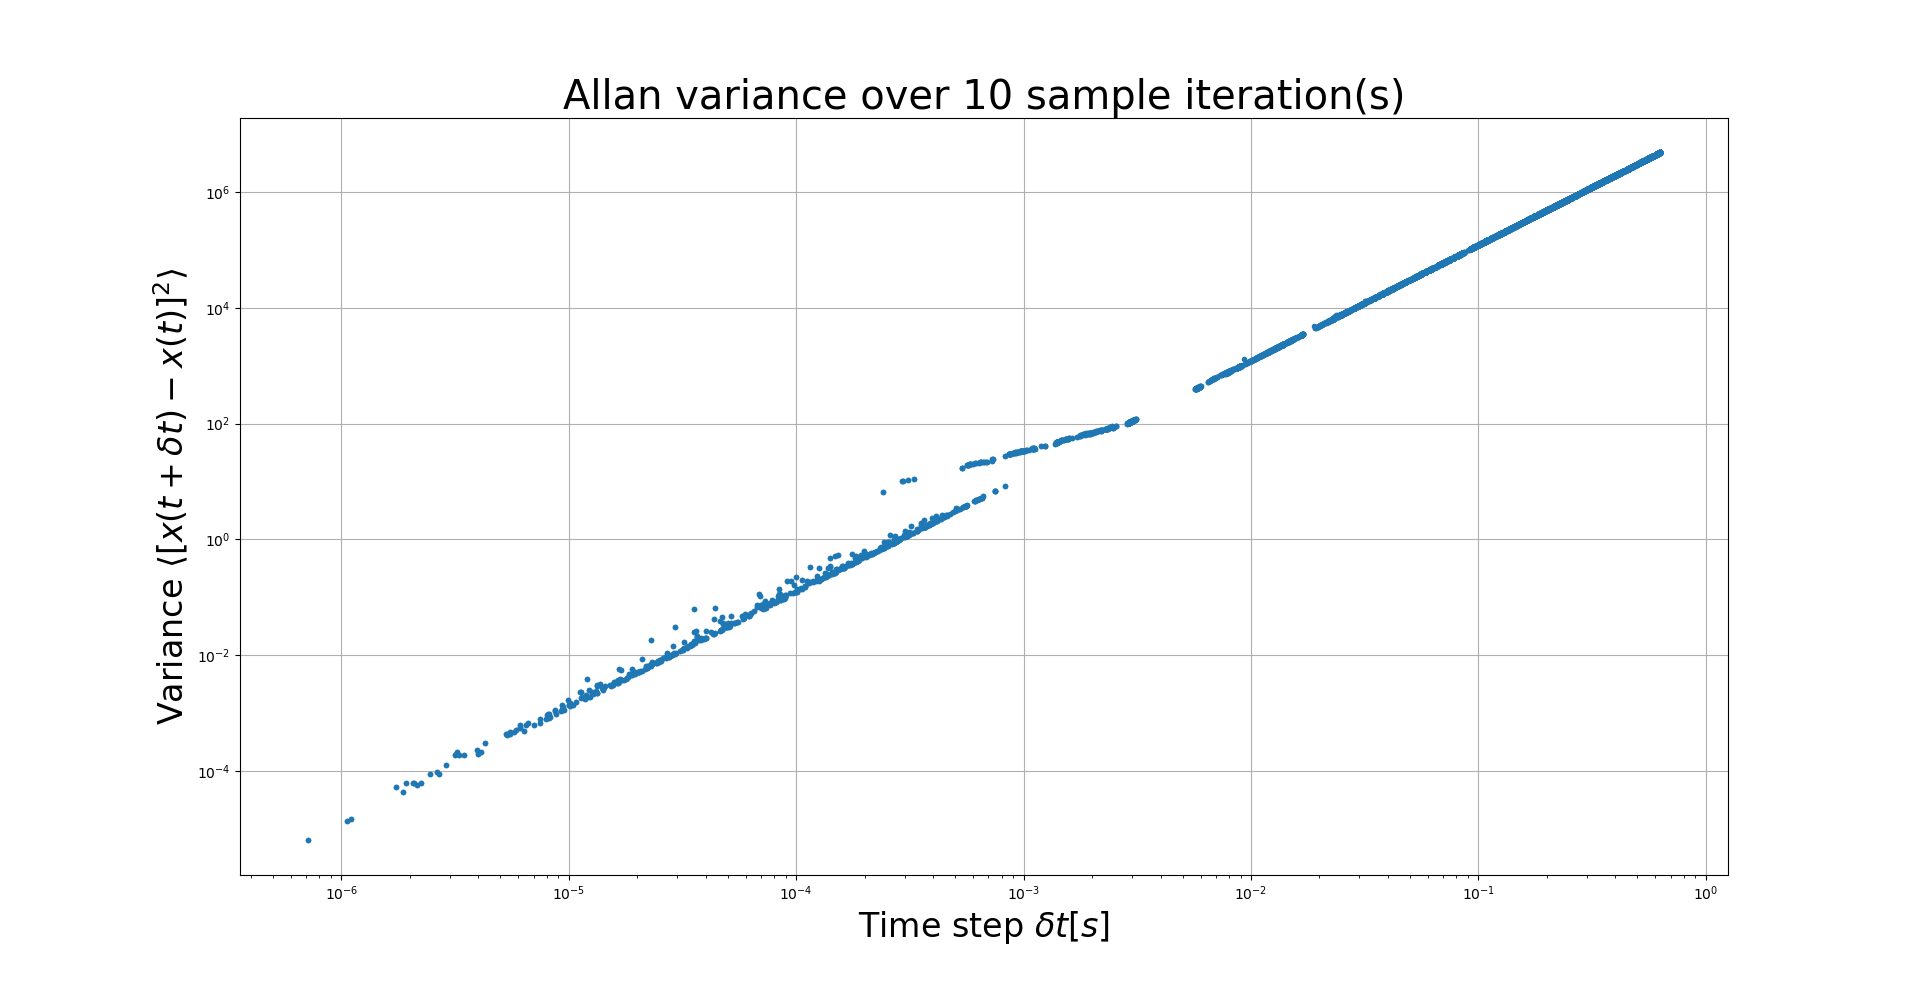
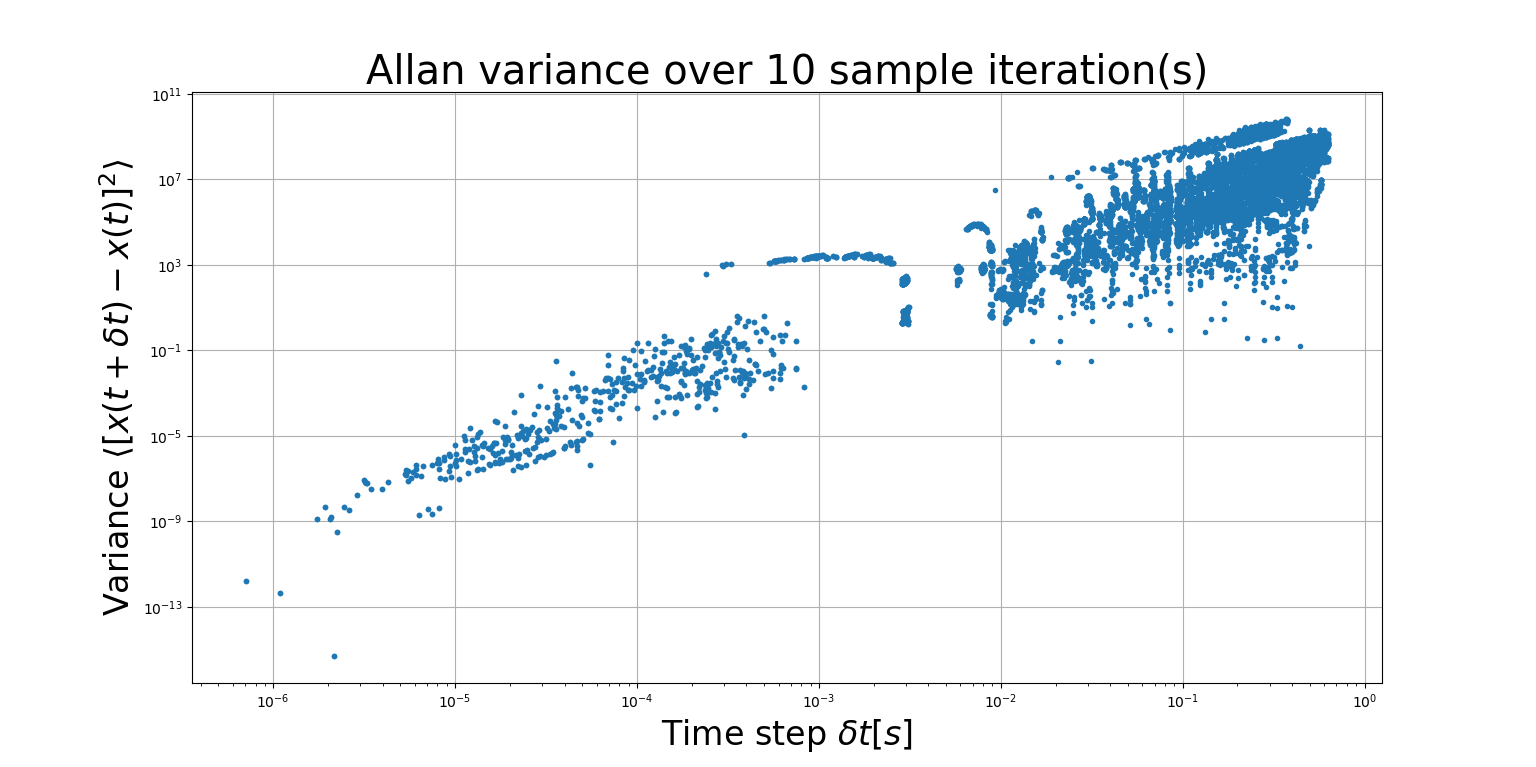
Updated Allan variance analysis. Added variance measurement figure. Updated peak identification sensitivity

diff --git a/src/allan_variance_analysis.py b/src/allan_variance_analysis.py
@@ -2,6 +2,8 @@ import numpy as np
 from typing import Union, Iterable, Dict, Any, Tuple, List
 from src.import_data import import_npy
 from src.peak_relation import LabeledPeakCollection
+LM_ARRAY = [0, 1, 2, 3, 4, 5, 6]
+TM_ARRAY = [0, 1, 2]
 
 
 def extract_mode_separation(collection: LabeledPeakCollection, pass_dict: Dict[Tuple[Tuple[int, int, int], Tuple[int, int, int]], Tuple[List[float], List[float]]], scan_velocity: float) -> Dict[Tuple[Tuple[int, int, int], Tuple[int, int, int]], Tuple[List[float], List[float]]]:
@@ -12,7 +14,7 @@ def extract_mode_separation(collection: LabeledPeakCollection, pass_dict: Dict[T
     cluster_array = collection.get_clusters
     lim_cluster_array = []
     for cluster in cluster_array:
-        if cluster.get_longitudinal_mode_id not in [0, 1, 2, 3]:
+        if cluster.get_longitudinal_mode_id not in LM_ARRAY:
             continue
         lim_cluster_array.append(cluster)
 
@@ -30,7 +32,7 @@ def extract_mode_separation(collection: LabeledPeakCollection, pass_dict: Dict[T
                 for q, peak_dt in enumerate(cluster_dt):
                     if i == j and q <= p:
                         continue
-                    if t_t > 2 or dt_t > 2:
+                    if t_t not in TM_ARRAY or dt_t not in TM_ARRAY:
                         continue
 
                     # Collect data
@@ -116,16 +118,30 @@ def get_allan_variance(collection_iterator: Iterable[LabeledPeakCollection], sca
             continue
         y_var = np.var(abs_diff_array)
         x_var = np.mean(delta_time_array)
-        # if x_var < 0.12 and y_var > 2.2:
-        #     print(abs_diff_array)
+        if y_var > 200:  # Outlier
+            continue
+
         y_array.append(y_var)
         x_array.append(x_var)
-
-        # y_array.extend(abs_diff_array)
-        # x_array.extend(delta_time_array)
-
-    # x_array, y_array = get_outlier_based_variance(ref_array=reference_array)
-    # x_array, y_array = get_time_interval_variance(ref_array=reference_array, steps=100)
+    # # TEMP
+    # plt.plot(x_array, y_array, '.')
+    # # Special FSR
+    # y_array_0X = []
+    # x_array_0X = []
+    # y_array_1X = []
+    # x_array_1X = []
+    # for key in reference_dict.keys():
+    #     ((t_l, t_t, p), (dt_l, dt_t, q)) = key
+    #     if t_l == 0 and dt_l != 0:
+    #         y_array_0X.append(np.var(reference_dict[key][0]))
+    #         x_array_0X.append(np.mean(reference_dict[key][1]))
+    #     if t_l == 1 and dt_l != 1:
+    #         y_array_1X.append(np.var(reference_dict[key][0]))
+    #         x_array_1X.append(np.mean(reference_dict[key][1]))
+    #
+    # plt.plot(x_array_0X, y_array_0X, '.', label=f'1st FSR')
+    # plt.plot(x_array_1X, y_array_1X, '.', label=f'2nd FSR')
+    # plt.legend()
 
     return np.asarray(x_array), np.asarray(y_array)
 
@@ -149,25 +165,28 @@ if __name__ == '__main__':
 
     def get_collections(iter_count: int) -> Iterable[LabeledPeakCollection]:
         for i in range(iter_count):
-            filename = file_fetch_function(iteration=i)
-            measurement_class = FileToMeasData(meas_file=filename, samp_file=file_samp)
-            measurement_class = get_converted_measurement_data(meas_class=measurement_class)
-            labeled_collection = LabeledPeakCollection(identify_peaks(meas_data=measurement_class))
-            yield labeled_collection
+            try:
+                filename = file_fetch_function(iteration=i)
+                measurement_class = FileToMeasData(meas_file=filename, samp_file=file_samp)
+                measurement_class = get_converted_measurement_data(meas_class=measurement_class)
+                labeled_collection = LabeledPeakCollection(identify_peaks(meas_data=measurement_class))
+                yield labeled_collection
+            except FileNotFoundError:
+                break
 
-    iter_count = 10
+    iter_count = 30
     scan_speed = 3500
     _x, allan_variance_y = get_allan_variance(collection_iterator=get_collections(iter_count=iter_count), scan_velocity=scan_speed)
     plt.plot(_x, allan_variance_y, '.')
 
     # Define font
-    font_size = 24
+    font_size = 22
     plt.rcParams.update({'font.size': font_size})
 
-    plt.title(f'Allan variance. FSR: 1-4, N: 0-2. ({iter_count} iterations)')
+    plt.title(f'Allan variance. FSR: {LM_ARRAY[0]}-{LM_ARRAY[-1]}, N: {TM_ARRAY[0]}-{TM_ARRAY[-1]}. ({iter_count} iterations)')
     plt.ylabel(f'Variance' + r' $\langle [x(t + \delta t) - x(t)]^2 \rangle$ $[nm^2]$', fontsize=font_size)
     plt.xlabel(f'Time step' + r' $\delta t[s]$', fontsize=font_size)
-    # plt.yscale('log')
+    plt.yscale('log')
     # plt.xscale('log')
     # plt.ylim([0, 200000])
     plt.grid(True)

diff --git a/src/mode_degeneracy_analysis.py b/src/mode_degeneracy_analysis.py
@@ -28,7 +28,7 @@ def get_radius_estimate(cluster_array: List[LabeledPeakCluster], wavelength: flo
     x_array = np.asarray([cluster.get_avg_x for cluster in cluster_array])
     fit_func = get_radius_fit_function(cluster_array=cluster_array, wavelength=wavelength)
     initial_radius = 10e4
-    params, param_dict = curve_fit(fit_func, xdata=x_array, ydata=np.zeros(len(x_array)), p0=[initial_radius, 0.], maxfev=100000, bounds=(0, +np.inf))
+    params, param_dict = curve_fit(fit_func, xdata=x_array, ydata=np.zeros(len(x_array)), p0=[initial_radius, 0.1], maxfev=100000, bounds=(0., +np.inf))
     return params, np.sqrt(np.diag(param_dict))  # [0], param_dict[0][0]  # mean, std
 
 
@@ -42,36 +42,26 @@ if __name__ == '__main__':
 
     wavelength = 633  # nm
     # Collect peaks
-    ax, measurement_class = prepare_measurement_plot('transrefl_hene_0_3s_10V_PMT4_rate1300000.0itteration0_pol000')
+    ax, measurement_class = prepare_measurement_plot('transrefl_hene_1s_10V_PMT4_rate1300000.0itteration1')
     measurement_class = get_converted_measurement_data(meas_class=measurement_class)
     labeled_collection = LabeledPeakCollection(identify_peaks(meas_data=measurement_class))
-    normal_collection = NormalizedPeakCollection(labeled_collection)
-    cluster_array = normal_collection.get_clusters
+    # normal_collection = NormalizedPeakCollection(labeled_collection)
+    cluster_array = labeled_collection.get_clusters
     [radius_mean, offset], [radius_std, offset_std] = get_radius_estimate(cluster_array=cluster_array, wavelength=wavelength)
 
-    print(radius_mean)
-    print(offset)
+    print(f'Cavity radius: R = {round(radius_mean, 1)} ' + r'+/-' + f' {round(radius_std, 1)} [nm]')
+    print(f'Cavity offset length: {offset} [nm]')
 
     def plot_func(length_input: np.ndarray, trans_mode: int) -> np.ndarray:
         return (trans_mode / np.pi) * np.arcsin(np.sqrt((length_input + offset) / radius_mean))
 
     # Adds q clusters
-    cluster_array.extend([NormalizedPeakCluster(data=cluster, anchor_data=labeled_collection) for cluster in normal_collection.get_q_clusters])
+    # NormalizedPeakCluster(data=cluster, anchor_data=labeled_collection)
+    cluster_array.extend([cluster for cluster in labeled_collection.get_q_clusters])
     for i in [-1, 0, 1, 2, 3, 4, 5]:
         sub_cluster_array = [cluster for cluster in cluster_array if cluster.get_transverse_mode_id == i]
         if len(sub_cluster_array) == 0:
             continue
-        # x_array = np.asarray([cluster.get_avg_x for cluster in sub_cluster_array])
-        # y_func = get_radius_fit_function(cluster_array=sub_cluster_array, wavelength=wavelength)
-        # y = []
-        # x = []
-        # for cluster in sub_cluster_array:
-        #     norm_pos = cluster.get_norm_avg_x
-        #     y.append(norm_pos)
-        #     if math.isnan(norm_pos):
-        #         x.append(norm_pos)
-        #     else:
-        #         x.append(cluster.get_avg_x)
 
         d = np.asarray([cluster.get_avg_x for cluster in sub_cluster_array])
 

diff --git a/src/peak_identifier.py b/src/peak_identifier.py
@@ -60,7 +60,7 @@ class PeakCollection:
 
 def identify_peaks(meas_data: SyncMeasData) -> PeakCollection:
     peak_prominence = identify_peak_prominence(meas_data)[0]  # Average peak prominence
-    cutoff_prominence = np.mean(peak_prominence) + 0.40 * np.std(peak_prominence)  # TODO: Hardcoded peak prominence cutoff
+    cutoff_prominence = np.mean(peak_prominence) + 0.30 * np.std(peak_prominence)  # TODO: Hardcoded peak prominence cutoff
     peak_indices, properties = find_peaks(x=meas_data.y_data, prominence=cutoff_prominence, distance=3)  # Arbitrary distance value
     # , height=identify_noise_ceiling(meas_data)
     peak_collection = PeakCollection([PeakData(data=meas_data, index=i) for i in peak_indices])
